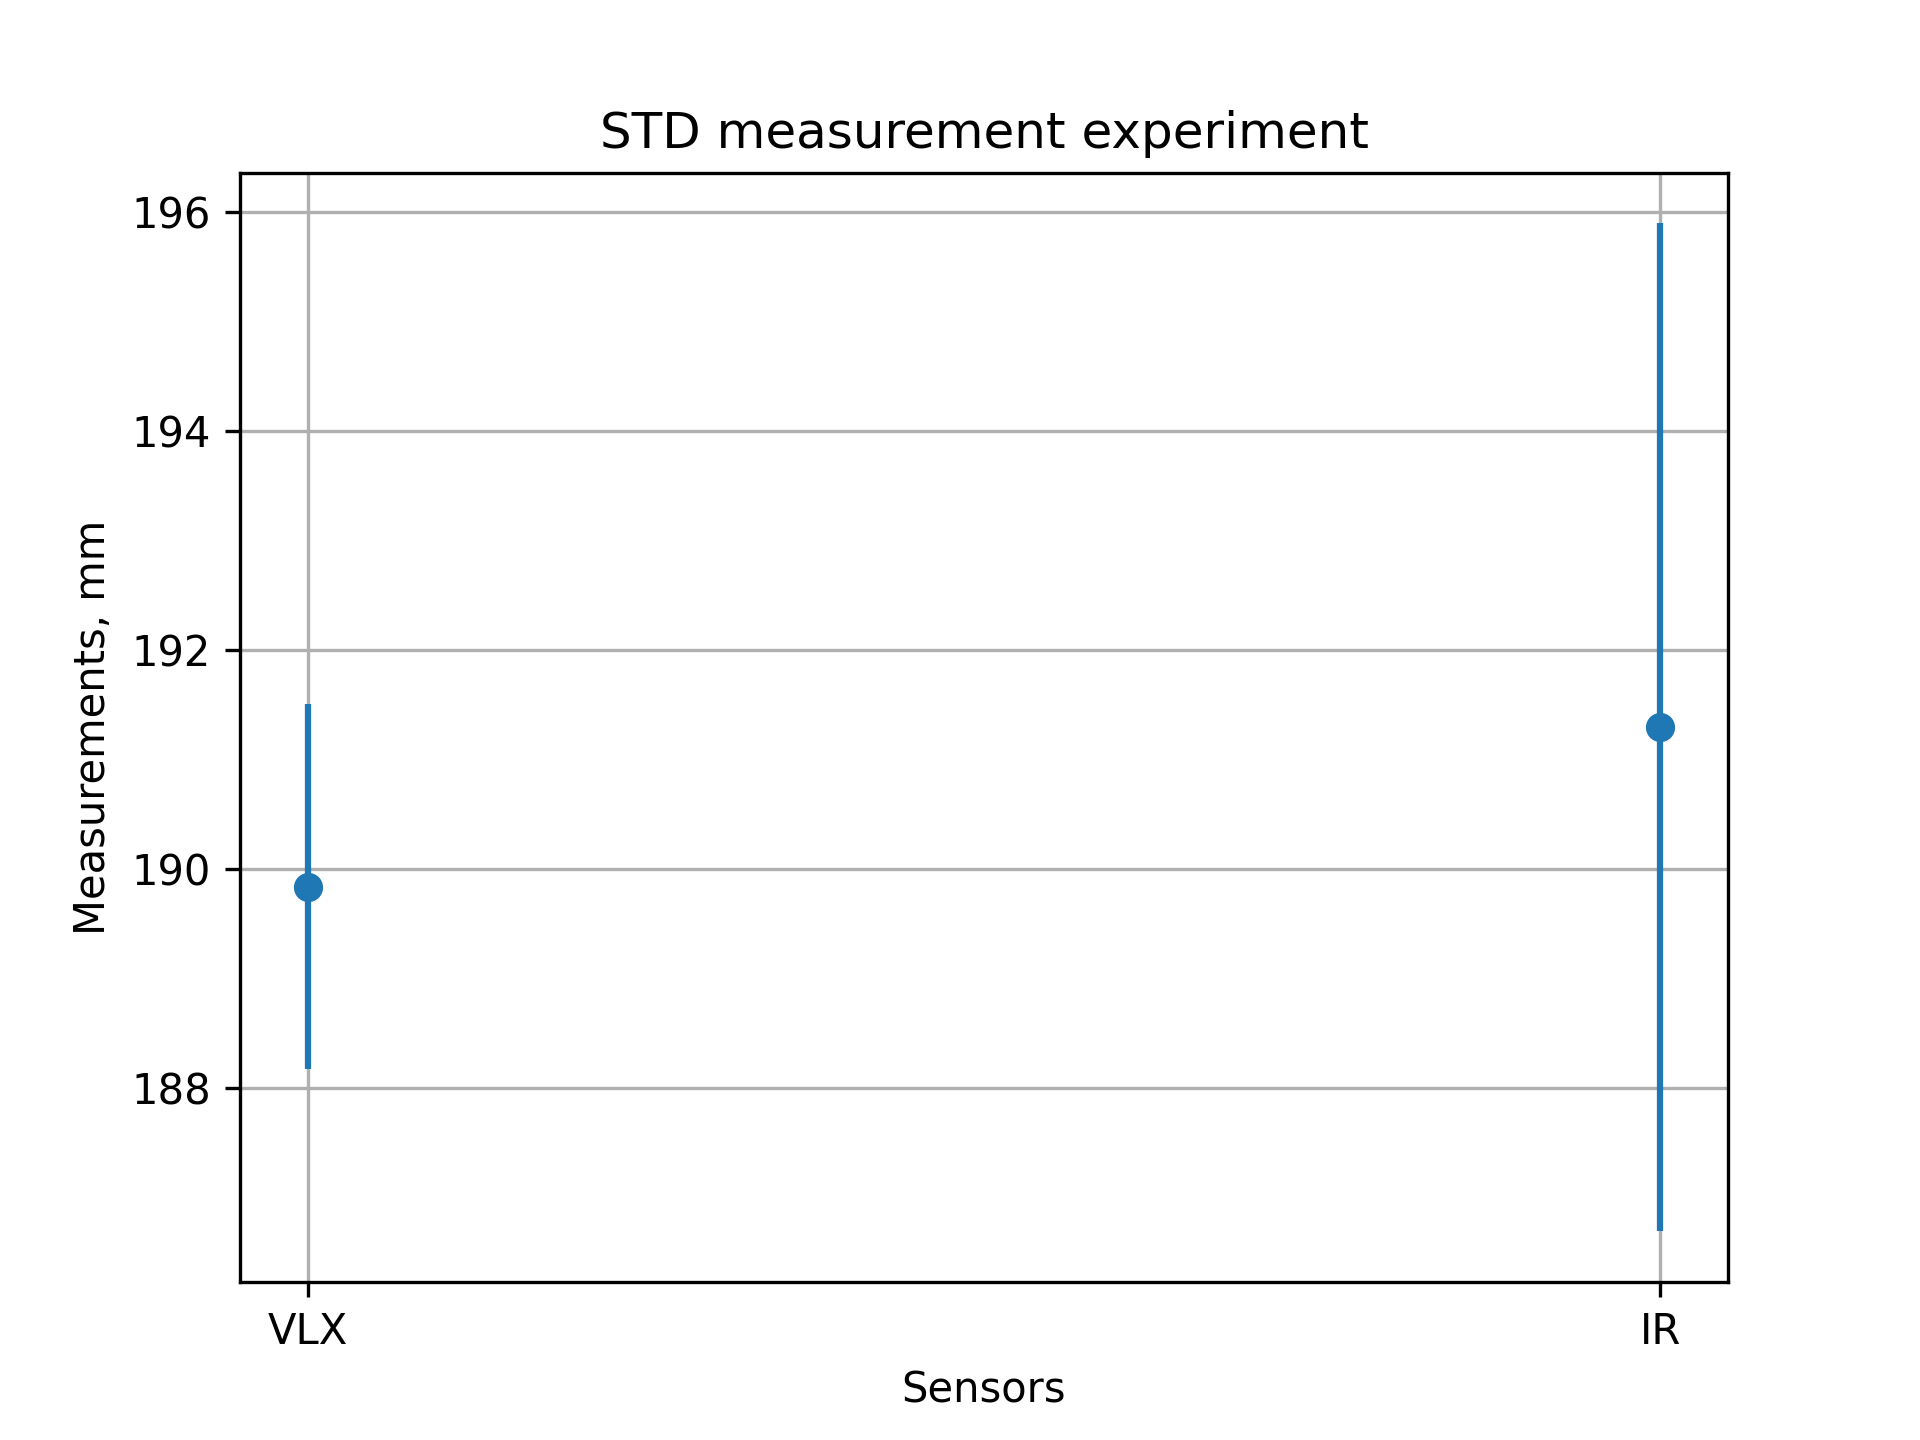
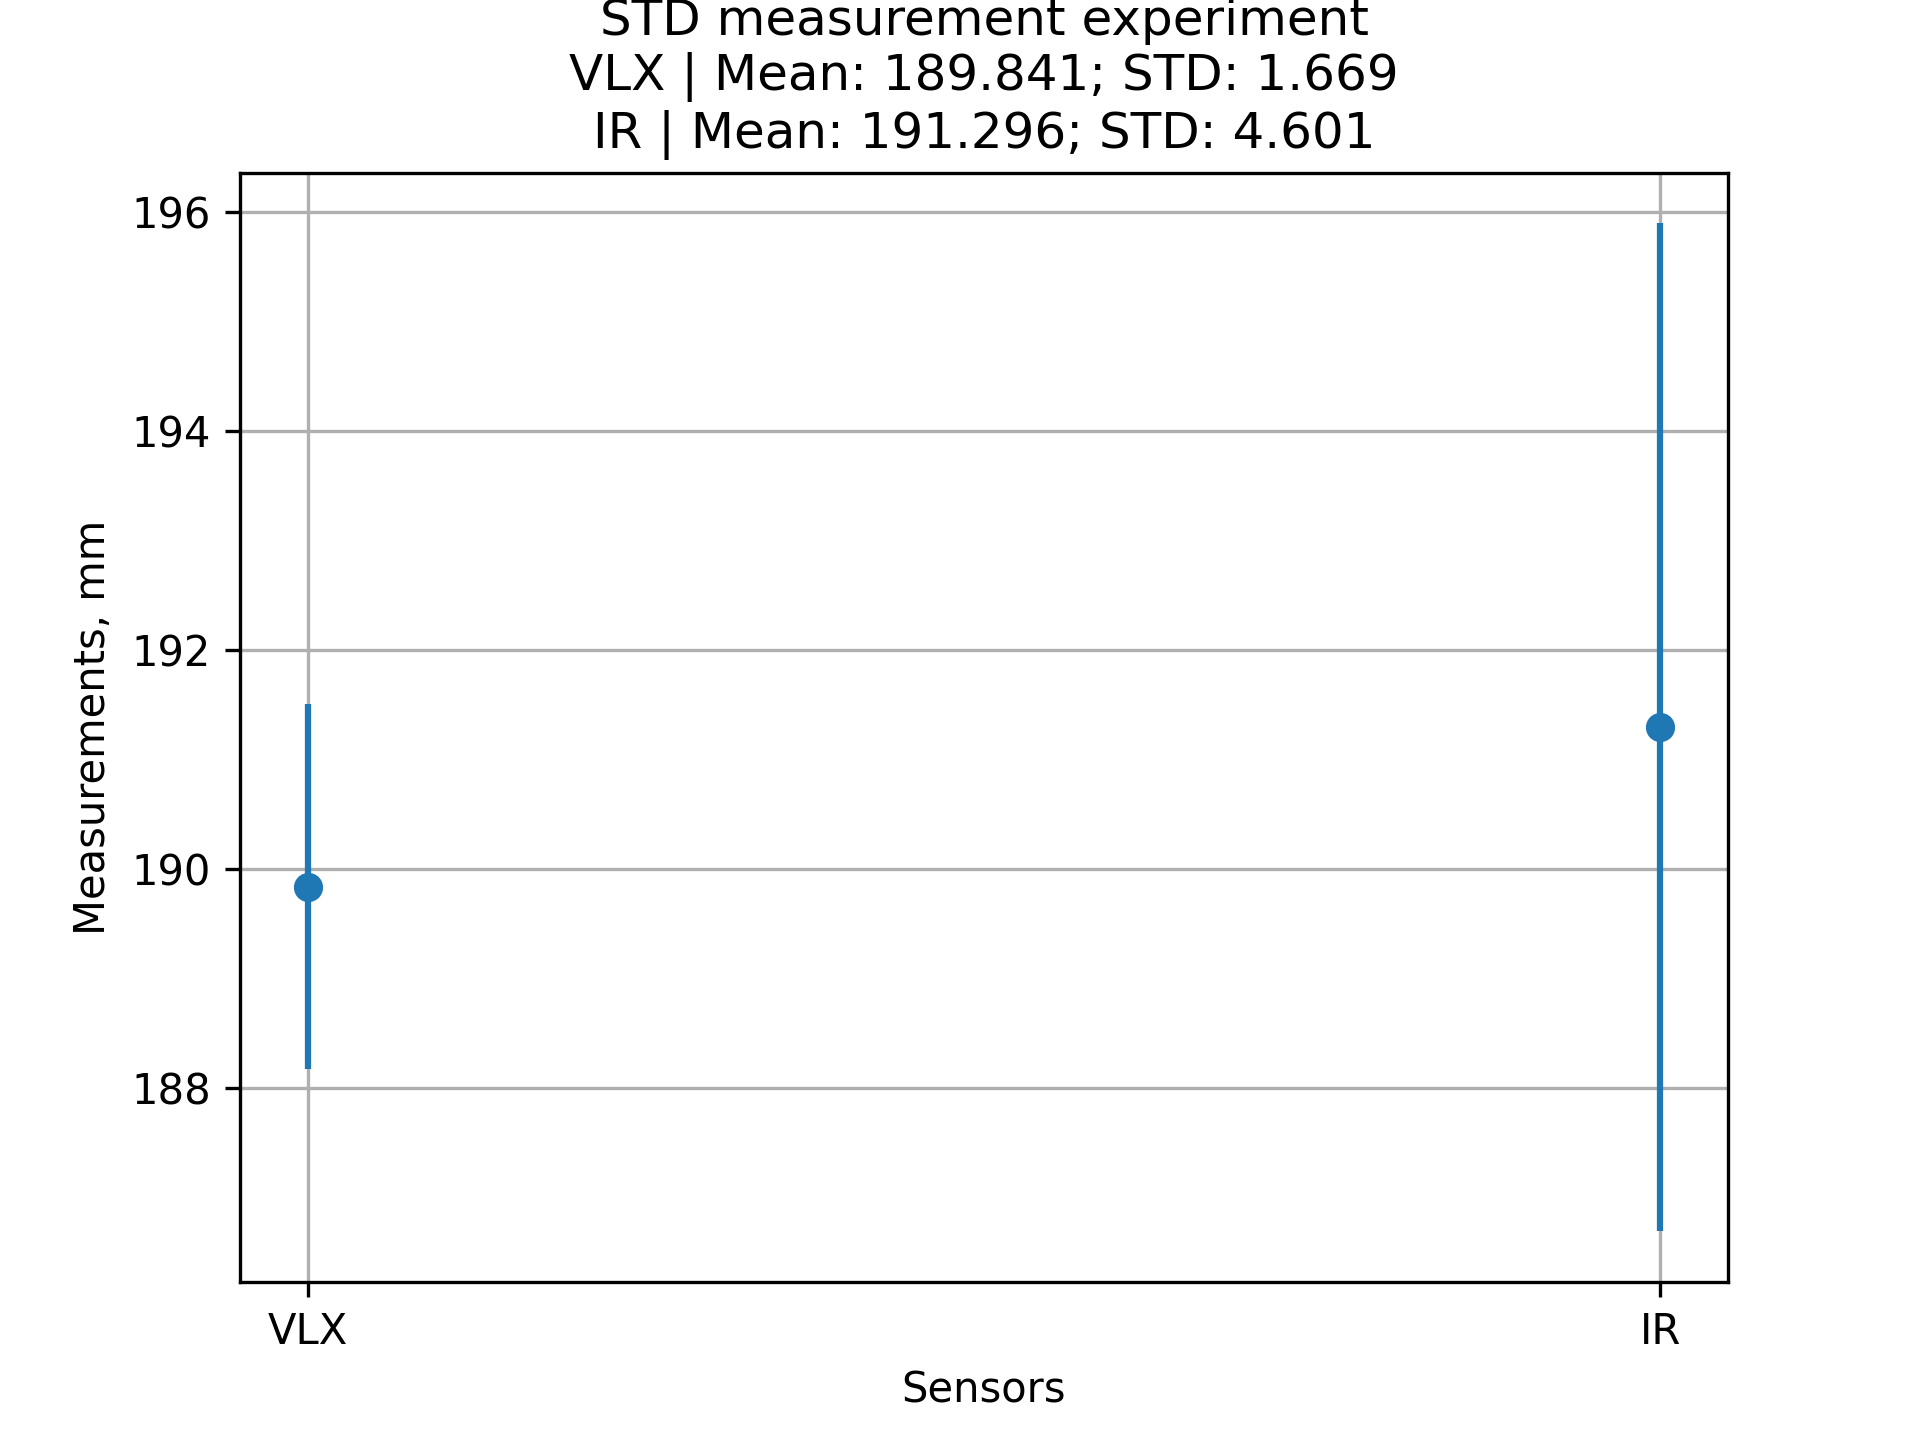
add metrics on plots

Changed region(s): [[0.2812, 0.0, 0.75, 0.125]]

diff --git a/python/experiments/vlx_ir_std.py b/python/experiments/vlx_ir_std.py
@@ -17,6 +17,7 @@ RESULTS_FILENAME = os.path.join(
     os.path.splitext(os.path.basename(__file__))[0]
 )
 
+
 sensors = []
 data = Data()
 points_set = []
@@ -48,7 +49,12 @@ print(data)
 
 plt.errorbar(range(len(sensors)), data.mean_points, data.std_points,
              linestyle='None', marker='o')
-plt.title('STD measurement experiment')
+plt.title(
+    'STD measurement experiment\n' +
+    '\n'.join([
+        f'{sensor} | Mean: {data.mean_points[i]:.3f}; STD: {data.std_points[i]:.3f}' for i, sensor in enumerate(sensors)
+    ])
+)
 plt.xlabel('Sensors')
 plt.ylabel('Measurements, mm')
 plt.xticks(range(len(sensors)), sensors)
@@ -66,7 +72,12 @@ with open(EXPERIMENTS_FILENAME, 'r') as file:
                 points[i][l] = float(point)
 
 plt.boxplot(points)
-plt.title('BoxPlot measurement experiment')
+plt.title(
+    'BoxPlot measurement experiment\n' + 
+    '\n'.join([
+        f'{sensor} | Mean: {data.mean_points[i]:.3f}; STD: {data.std_points[i]:.3f}' for i, sensor in enumerate(sensors)
+    ])
+)
 plt.xlabel('Sensors')
 plt.ylabel('Measurements, mm')
 plt.xticks(range(1, 1 + len(sensors)), sensors)

diff --git a/python/experiments/vlx_distance_offset.py b/python/experiments/vlx_distance_offset.py
@@ -11,6 +11,11 @@ EXPERIMENTS_FILENAME = os.path.join(
     'experiments',
     os.path.splitext(os.path.basename(__file__))[0] + '.txt'
 )
+RESULTS_FILENAME = os.path.join(
+    os.path.dirname(__file__),
+    'results',
+    os.path.splitext(os.path.basename(__file__))[0]
+)
 
 
 distances = []
@@ -60,8 +65,12 @@ print('MODEL_COEFFICIENTS:\n', *model.coef_, model.intercept_)
 
 plt.errorbar(distances, data.mean_points, data.std_points,
              linestyle='None', marker='o')
-plt.title('Distance measurement experiment')
+plt.title(
+    'Distance measurement experiment\n' +
+    f'Model: Distance = {model.coef_[0]:.3f} * Measurement + {model.intercept_:.3f}'
+)
 plt.xlabel('Real distance, mm')
 plt.ylabel('Measurement, mm')
 plt.grid()
+plt.savefig(RESULTS_FILENAME, dpi=300)
 plt.show()
